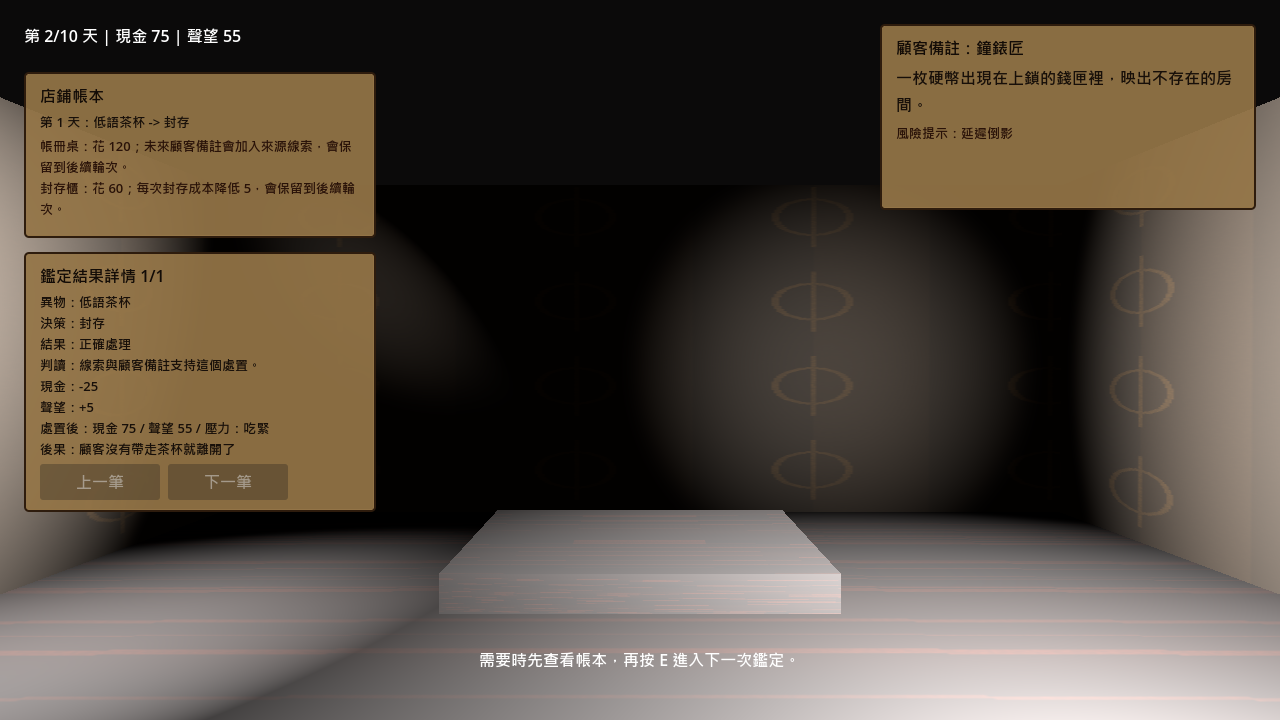
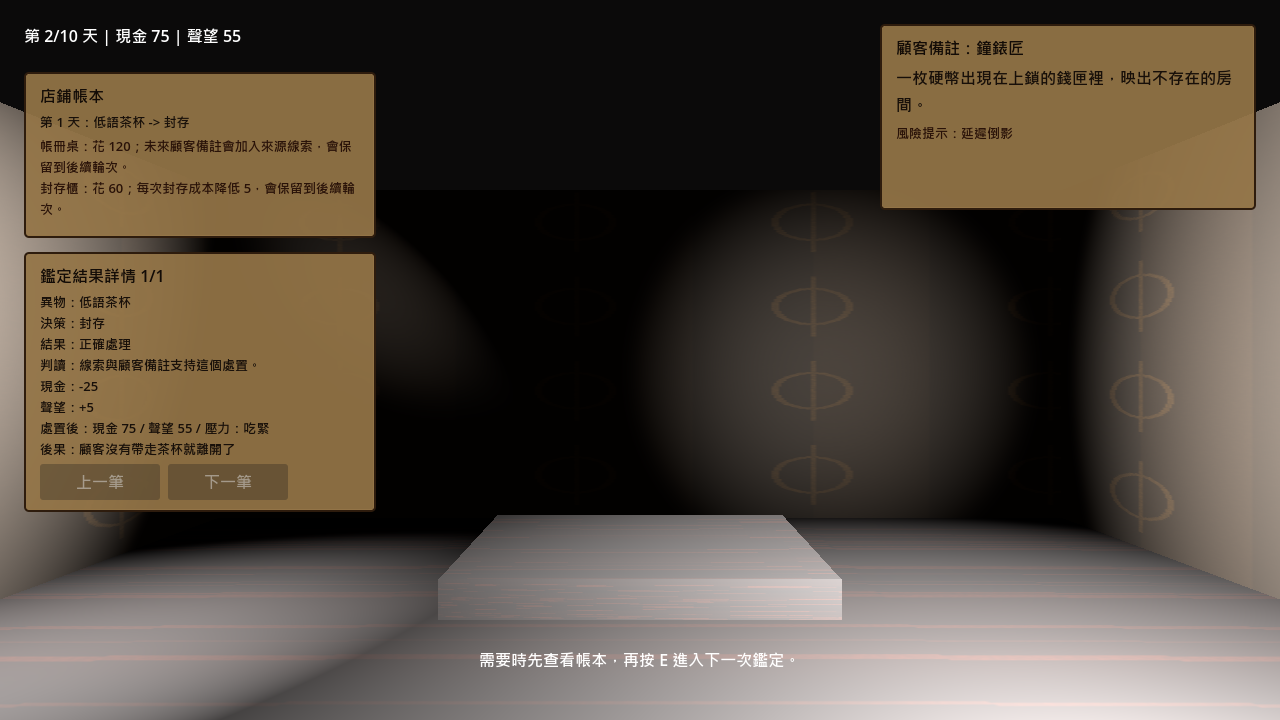
feat: add candle cursed sale branch

diff --git a/tests/test_godot_game_state.py b/tests/test_godot_game_state.py
@@ -132,6 +132,7 @@ class GodotGameStateTests(unittest.TestCase):
         self.assertIn('"oddity_0004": {\n\t\t"sell": {"outcome_key": "outcome.bad_appraisal", "value_delta": 80, "reputation_delta": -18, "bad_ending": true, "bad_ending_title_key": "ending.lockout.title"}', game_state)
         self.assertIn('"oddity_0005": {\n\t\t"seal": {"outcome_key": "outcome.bad_appraisal", "value_delta": -20, "reputation_delta": -6, "bad_ending": false}', game_state)
         self.assertIn('"oddity_0006": {\n\t\t"seal": {"outcome_key": "outcome.bad_appraisal", "value_delta": -20, "reputation_delta": -14, "bad_ending": false}', game_state)
+        self.assertIn('"sell": {"outcome_key": "outcome.cursed_sale", "value_delta": 65, "reputation_delta": -18, "bad_ending": false}', game_state)
         self.assertIn('"oddity_0007": {\n\t\t"sell": {"outcome_key": "outcome.bad_appraisal", "value_delta": 40, "reputation_delta": -13, "bad_ending": false}', game_state)
         self.assertIn('"oddity_0008": {\n\t\t"sell": {"outcome_key": "outcome.bad_appraisal", "value_delta": 45, "reputation_delta": -14, "bad_ending": false}', game_state)
         self.assertIn('"oddity_0009": {\n\t\t"sell": {"outcome_key": "outcome.bad_appraisal", "value_delta": 60, "reputation_delta": -16, "bad_ending": false}', game_state)
@@ -145,6 +146,17 @@ class GodotGameStateTests(unittest.TestCase):
         self.assertIn('"oddity_0004": {', game_state)
         self.assertIn(
             '"sell": {"outcome_key": "outcome.bad_appraisal", "value_delta": 80, "reputation_delta": -18, "bad_ending": true, "bad_ending_title_key": "ending.lockout.title"}',
+            game_state,
+        )
+
+    def test_game_state_marks_black_candle_wrong_sale_as_cursed_sale_without_ending(self):
+        game_state = (ROOT / "godot" / "scripts" / "game_state.gd").read_text(
+            encoding="utf-8"
+        )
+
+        self.assertIn('"oddity_0006": {', game_state)
+        self.assertIn(
+            '"sell": {"outcome_key": "outcome.cursed_sale", "value_delta": 65, "reputation_delta": -18, "bad_ending": false}',
             game_state,
         )
 
@@ -314,6 +326,9 @@ class GodotGameStateTests(unittest.TestCase):
         self.assertIn("_verify_key_sale_bad_ending", script)
         self.assertIn('ending.lockout.title', script)
         self.assertIn('Cold key sale bad ending should apply the reputation penalty', script)
+        self.assertIn("_verify_black_candle_wrong_sale_detail", script)
+        self.assertIn('Black candle wrong sale should stay in non-ending day result flow', script)
+        self.assertIn('outcome_note.oddity_0006.sell', script)
         self.assertIn("_verify_late_game_wrong_outcomes", script)
         self.assertIn('Day 8 wrong sale should use late-game cash delta', script)
         self.assertIn('Day 10 wrong discard should use late-game reputation delta', script)

diff --git a/docs/production/full_release_roadmap.md b/docs/production/full_release_roadmap.md
@@ -101,8 +101,8 @@ Owner direction on 2026-05-31: skip Steam store readiness and real-player playte
 Recommended next implementation task:
 
 1. Continue Phase B productization polish.
-2. Add one more non-ending wrong-outcome detail branch before adding a new oddity batch.
-3. Run the Traditional Chinese HUD capture set after the next content branch.
+2. Add one review-facing capture state for a late-game wrong outcome.
+3. Use that evidence to decide whether Phase C is ready for a new oddity batch.
 
 Reason:
 
@@ -114,4 +114,6 @@ Reason:
 - Phase C has started with a second bad-ending branch for the Ashen Music Box wrong sale path.
 - The 2026-05-31 HUD safe-area pass fixed the final-summary return button clipping at `1152x648` and refreshed the Traditional Chinese screenshots.
 - Phase C now includes a third bad-ending branch: selling the Cold Brass Key triggers the localized 3:04 Lockout ending and is covered by the headless smoke flow.
-- The next low-risk content task is one more non-ending wrong-outcome detail branch, followed by the Traditional Chinese HUD capture set before a new oddity batch.
+- Phase C now includes a non-ending wrong-outcome detail branch: selling the Black Wax Candle records `outcome.cursed_sale`, keeps the day-result flow, and explains the name-triggered flame in result detail.
+- The Traditional Chinese HUD capture set was rerun after the Black Wax Candle branch; result-detail screenshots were refreshed at `1152x648` and `1280x720`.
+- The next low-risk task is adding one review-facing capture state for a late-game wrong outcome before deciding whether to start a new oddity batch.

diff --git a/docs/production/agent_roster.md b/docs/production/agent_roster.md
@@ -115,4 +115,6 @@ Add after the asset factory can reliably produce at least one approved object.
 - Done: Started Phase C content expansion with a second bad-ending branch: selling the Ashen Music Box now triggers a localized Empty Nursery Tune ending.
 - Done: Ran the focused 1152x648 and 1280x720 HUD safe-area visual pass, fixed the final-summary return button clipping, and recorded evidence in `docs/production/playtests/2026-05-31-hud-safe-area-pass.md`.
 - Done: Continued Phase C with a third bad-ending branch: selling the Cold Brass Key now triggers a localized 3:04 Lockout ending, covered by the headless smoke flow.
-- Next recommended slice: add one more non-ending wrong-outcome detail branch, then run the Traditional Chinese HUD capture set before considering a new oddity batch.
+- Done: Added a non-ending wrong-outcome detail branch: selling the Black Wax Candle now records `outcome.cursed_sale`, keeps the day-result flow, and explains the name-triggered flame in result detail.
+- Done: Reran the Traditional Chinese HUD capture set after the Black Wax Candle branch; result-detail screenshots were refreshed at 1152x648 and 1280x720.
+- Next recommended slice: add one more review-facing capture state for a late-game wrong outcome before considering a new oddity batch.